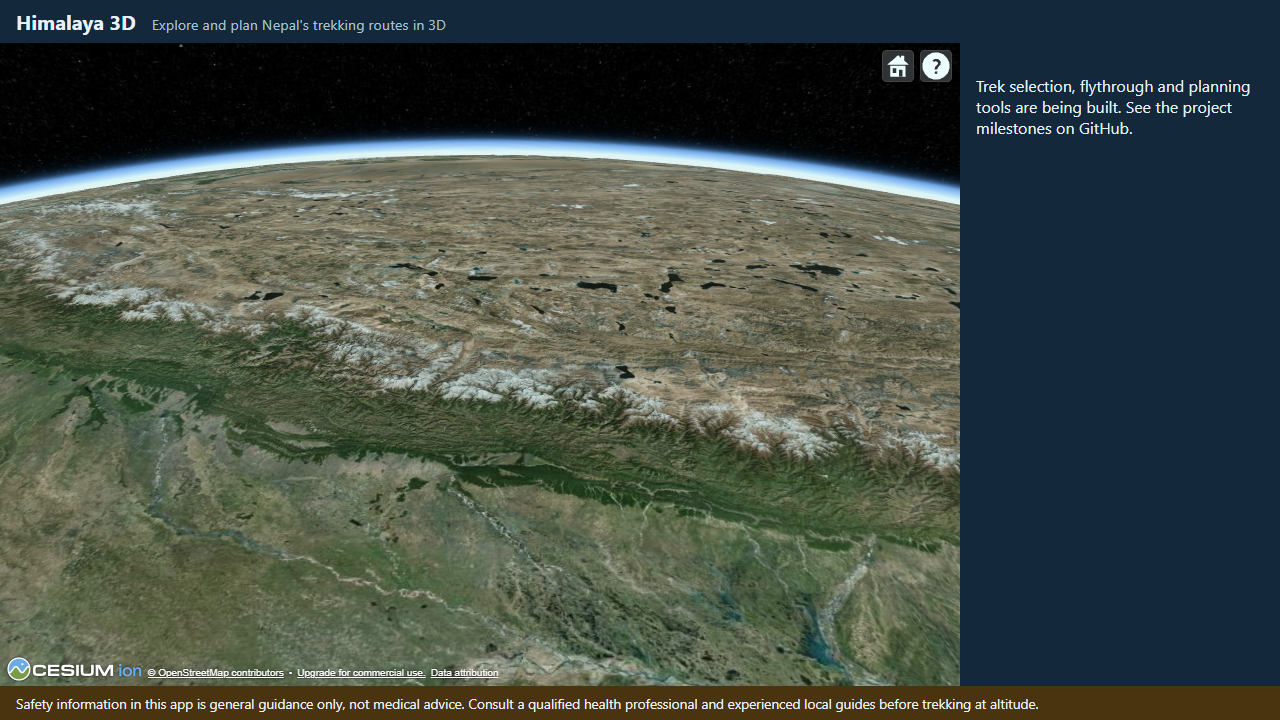
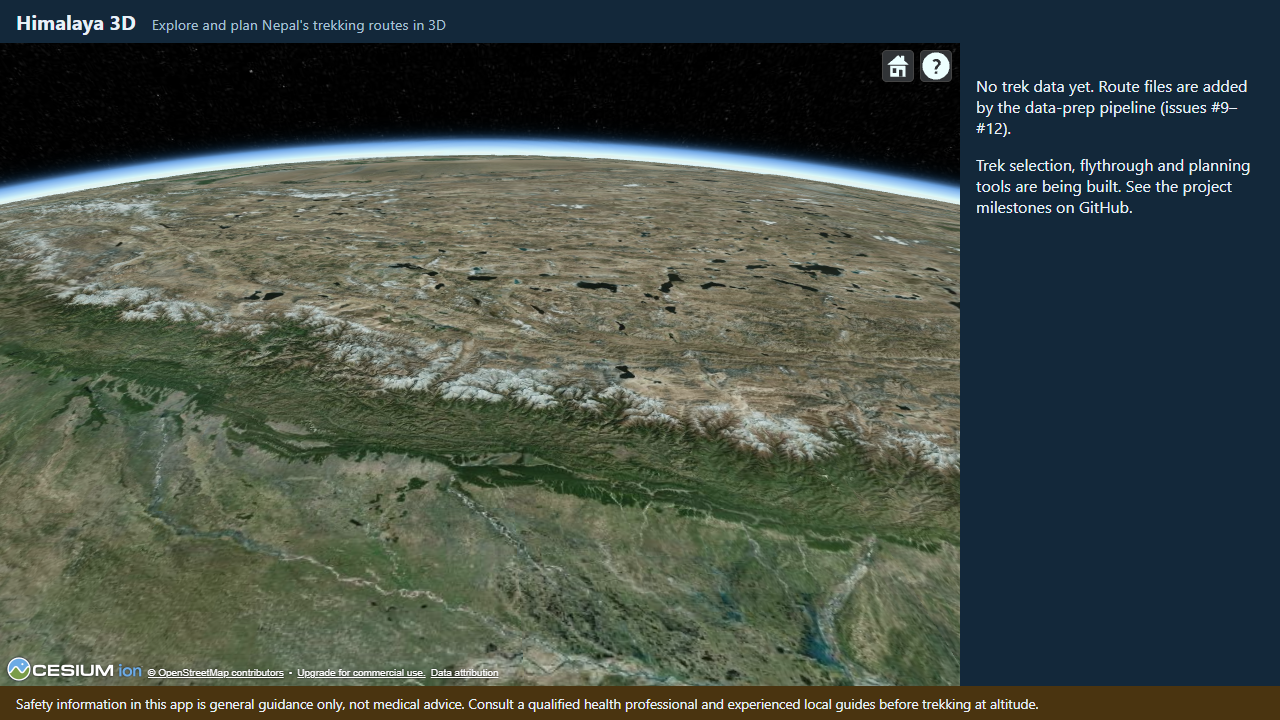
docs(3d-engine): route layer docs, ADR-025, index in schema doc; refresh start-view screenshot
- ADR-025 (run-time route loading, ViewerContext, synthetic e2e fixture)
- Sparsh's notes (route drawing walkthrough, Q23-26, exercises 9-10); Unique's (route_index.py)
- data-schema.md explains data/routes/index.json; ui-design 'still to add' updated
- i18n-review lists the new strings; README feature table; progress and AI usage
- m3-nepal-start-view.png now shows the side-panel status line

Refs #15

Changed region(s): [[0.75, 0.0917, 0.9688, 0.1833], [0.75, 0.2139, 0.9688, 0.3056]]

diff --git a/docs/viva/sparsh-gorkhali.md b/docs/viva/sparsh-gorkhali.md
@@ -22,6 +22,11 @@ in M7 you lead performance measurement and testing.
 | `app/src/engine/nepalView.test.ts` | Checks the start view looks at Nepal (worked numbers in comments) | FR1 |
 | `app/src/engine/camera.ts` | Nepal as Cesium's default view; `viewNepal`; home button flies back to Nepal | FR1 |
 | `app/src/engine/credits.ts` | OpenStreetMap credit shown on the map next to Cesium's | NFR5 |
+| `app/src/engine/ViewerContext.ts` | Shares the Viewer with layers inside the globe (`useViewer`) | FR2 |
+| `app/src/features/routes/RouteLayer.tsx` | Draws the trail and stop markers; removes them in cleanup | FR2 |
+| `app/src/features/routes/routeEntities.ts` (+ test) | What to draw, as plain data; escaped popup HTML | FR2 |
+| `app/src/features/routes/loadRoutes.ts`, `useRoutes.ts` | Download the index and the shown route | FR2 |
+| `app/e2e/routes.spec.ts`, `app/e2e/fixtures/` | e2e with a SYNTHETIC route served by `page.route` | FR2 |
 | `app/src/lib/geo/distance.ts` | Haversine, cumulative distance, distance → (segment, t) lookup | FR3, FR4 |
 | `app/src/lib/geo/distance.test.ts` | Hand-checkable tests (1° = 111,194.9 m, πR/2, πR, uneven spacing) | FR3, FR4 |
 | `app/playwright.config.ts` | Runs e2e tests against the production build under `/himalaya-3d/` | all |
@@ -183,6 +188,37 @@ Distances before the start or after the end are clamped. Example from the tests:
   hundreds of metres, not for continents.
 - Heights are ignored: these are map distances, not the distance walked up and down hills.
 
+### Drawing a route (`features/routes/`, `engine/ViewerContext.ts`, issue #15)
+
+**Data flow.**
+
+```
+App ──useRoutes──► fetch <base>data/routes/index.json ──► fetch <first id>.geojson ──► RouteFile
+App renders <CesiumGlobe> <RouteLayer route=... language=... /> </CesiumGlobe>
+CesiumGlobe ──ViewerContext──► RouteLayer ──useViewer()──► the Viewer (null until it exists)
+RouteLayer effect: routeDrawing(route, language)        plain data, unit-tested
+                   → new CustomDataSource: trail polyline + one point/label per stop
+                   → viewer.dataSources.add(...) → viewer.flyTo(dataSource)
+           cleanup: viewer.dataSources.remove(dataSource, true)   (every entity gone at once)
+```
+
+**Key ideas.**
+- *Load at run time, not bundle:* the index is small; a route file is downloaded only when shown,
+  and the e2e test can swap in a synthetic route with `page.route` (ADR-025).
+- *One data source per route:* removing it removes the trail and every marker together, so
+  switching routes can never leave old markers behind.
+- *`clampToGround: true`* drapes the trail over the terrain; *`HeightReference.CLAMP_TO_GROUND`*
+  puts the markers on the ground; *`disableDepthTestDistance: Infinity`* keeps markers visible
+  even where a ridge is in front of them.
+- *Popups:* each stop entity has a `description` (HTML) that Cesium's info box shows when the
+  marker is clicked. The HTML is built in `routeEntities.ts` and every piece of data in it goes
+  through `escapeHtml`, so a "<" in a name can never inject markup.
+- *Async safety:* `dataSources.add` returns a promise. If the route changed or the Viewer was
+  destroyed before it resolved, the `removed` flag / `isDestroyed()` check stops the fly-to.
+
+**Limits.** The first route is shown automatically until the trek selector (#16). Daily stages are
+#49. The info box is Cesium's own; its styling is basic.
+
 ## Key concepts from first principles
 
 - **Static site**: just files; the server does no computation. → Free hosting, but no secrets.
@@ -246,6 +282,14 @@ Distances before the start or after the end are clamped. Example from the tests:
     steps (14 for 10,000 points) instead of up to n.
 22. **What does locateDistance return at exactly a stop's distance, and past the end?** — The start
     of the next segment (t = 0); past the end it is clamped to the last segment with t = 1.
+23. **How do layers get the Cesium Viewer?** — Through `ViewerContext`: CesiumGlobe provides it,
+    layers call `useViewer()` and must handle null.
+24. **How are old markers removed when the route changes?** — Everything is in one
+    `CustomDataSource`; the effect cleanup calls `dataSources.remove(dataSource, true)`.
+25. **Why escape the popup HTML when the data is ours?** — Cheap insurance: a `<` or `&` in a name
+    can never break the popup or inject markup.
+26. **How can the route be tested before real data exists?** — The e2e test intercepts the two
+    requests and serves a synthetic fixture; the screenshot is named `...-synthetic.png`.
 
 ## Prove you understand it (do these by hand, no AI)
 
@@ -266,6 +310,10 @@ Distances before the start or after the end are clamped. Example from the tests:
    check it with a new test. Why is it the same as one degree along the equator?
 8. Add a test where the route has a single very long segment between many short ones, and check
    that equal steps in distance still give equal steps on the ground.
+9. Change the trail colour and width in `RouteLayer.tsx`, rebuild, and take a screenshot with
+   `UPDATE_SCREENSHOTS=1 npm run e2e`. Then revert.
+10. Explain, with the code open, what happens if the route changes while `dataSources.add` is
+    still pending. Which line stops the old route's fly-to?
 
 ## AI use in this part
 
@@ -289,3 +337,5 @@ Distances before the start or after the end are clamped. Example from the tests:
   28.58 °N), corrected curvature direction and render-mode notes, Q11–Q13 and Q16 rewritten.
 - 2026-11-21 — M4 #18: geo maths walkthrough (haversine with a calculator-safe worked example,
   cumulative distance, binary search), limits, questions 18–22, exercises 7–8.
+- 2026-11-21 — M3 #15: route drawing walkthrough (ViewerContext, data source, popups, async
+  safety), Q23–26, exercises 9–10.

diff --git a/docs/i18n-review.md b/docs/i18n-review.md
@@ -14,6 +14,13 @@ add the reviewer's name, and fix `app/src/i18n/ne.json` if needed.
 | `globe.noToken` | No Cesium ion token configured: … | Cesium ion टोकन मिलाइएको छैन: … | Needs review | |
 | `panel.comingSoon` | Trek selection, flythrough and planning tools are being built. … | पदयात्रा छनोट, उडान दृश्य (flythrough) र योजना उपकरणहरू बन्दैछन्। … | Needs review | |
 | `credits.osm` | © OpenStreetMap contributors | © OpenStreetMap contributors (kept in English) | Needs review: does the OSMF Attribution Guideline allow a Nepali wording? (TODO(team): verify) | |
+| `routes.loading` | Loading treks… | पदयात्राहरू लोड हुँदैछन्… | Needs review | |
+| `routes.none` | No trek data yet. Route files are added by the data-prep pipeline (issues #9–#12). | अहिलेसम्म पदयात्राको डाटा छैन। … | Needs review | |
+| `routes.error` | Could not load the trek list. … | पदयात्राको सूची लोड गर्न सकिएन। … | Needs review | |
+| `routes.showing` | Showing {name}: {count} overnight stops. Click a marker for details. | {name} देखाइँदैछ: {count} वटा रात बस्ने ठाउँ। … | Needs review (keep {name} and {count}) | |
+| `stop.altitude` | Altitude | उचाइ | Needs review | |
+| `stop.source` | Altitude source | उचाइको स्रोत | Needs review | |
+| `stop.day` | Arrive on day | पुग्ने दिन | Needs review | |
 | `disclaimer.medical` | Safety information in this app is general guidance only, not medical advice. … | यस एपको सुरक्षा जानकारी सामान्य मार्गदर्शन मात्र हो, चिकित्सा सल्लाह होइन। … | Needs review (safety wording — high priority) | |
 
 Full text of each string is in `app/src/i18n/en.json` and `app/src/i18n/ne.json`.

diff --git a/docs/decisions.md b/docs/decisions.md
@@ -304,3 +304,27 @@ details had to be decided to write code and tests.
   impossible altitudes (NaN, Infinity, negative).
 **Consequences:** The UI (#24) words the warnings in both languages. Changing the rule ("rest every
 3 days") means changing one constant and the matching tests.
+
+## ADR-025 · Route files are loaded at run time; layers share the Viewer (Sparsh, 2026-11-21)
+
+**Context:** Issue #15 (FR2): draw the selected route and its stops. No real route files exist yet
+(#9–#12), but the drawing must be testable now.
+**Decision:**
+- `vite.config.ts` copies `data/routes/index.json` and `*.geojson` to `<base>data/routes/`; the app
+  downloads the index first and a route file only when it is shown (`features/routes/loadRoutes.ts`),
+  instead of bundling every route into the JavaScript.
+- `data/routes/index.json` is generated by `prep/route_index.py` (and refreshed by `build_route`);
+  pytest checks the committed index matches the files.
+- `CesiumGlobe` shares the Viewer through `ViewerContext`; layers are rendered as its children and
+  use `useViewer()` (null until the Viewer exists).
+- `RouteLayer` puts everything for one route in one `CustomDataSource` (trail polyline clamped to
+  the ground; stop points and labels clamped to the ground with depth test disabled; Cesium
+  info-box popups) and removes it in the effect cleanup. What to draw is computed as plain data in
+  `routeEntities.ts` (unit tested, HTML-escaped).
+- e2e tests intercept the two requests (`page.route`) and serve a clearly SYNTHETIC fixture
+  (`app/e2e/fixtures/`, "Test Route"); the screenshot from it is named `...-synthetic.png`.
+- Until the trek selector (#16) exists, the first route in the index is shown.
+**Alternatives:** `import.meta.glob` to bundle routes (no network request, but every route is
+downloaded up front and tests cannot swap in a fixture).
+**Consequences:** One extra small request at start-up. Adding a real route needs no code change:
+build it with the pipeline, commit the `.geojson` and the regenerated `index.json`.

diff --git a/docs/PROGRESS.md b/docs/PROGRESS.md
@@ -5,6 +5,30 @@ what the TEAM must do next, open questions.
 
 ---
 
+## 2026-11-21 · M3 #15 Route line and stop markers (owner: Sparsh; index: Unique)
+
+**Done**
+
+- Routes are loaded at run time: `data/routes/index.json` (generated by `prep/route_index.py`,
+  refreshed by `build_route`, checked by pytest) and then one `.geojson` (ADR-025).
+- `ViewerContext`: layers inside `CesiumGlobe` reach the Viewer with `useViewer()`.
+- `RouteLayer`: trail clamped to the ground, stop markers and labels, Cesium info-box popups with
+  escaped HTML (name in both languages, altitude with source, day, description); everything for a
+  route is one data source, removed in cleanup; the camera flies to the route.
+- Side panel status line: loading / no trek data yet / could not load / "Showing … N overnight
+  stops". `t()` gained `{name}` placeholders (a test checks both languages use the same holes).
+- The real index is empty, so the live app says "No trek data yet". The e2e test serves a
+  SYNTHETIC fixture route: `docs/screenshots/m3-route-layer-synthetic.png`.
+- Follow-up issue #49 opened for FR2's "daily stages".
+
+**Test evidence (local, Windows):** after merging main: `npm run lint` clean; `npm run typecheck`
+clean; Vitest all passed; `npm run e2e` 3 passed; data-prep `pytest` 116 passed, 1 skipped.
+
+**TEAM TODO:** Sparsh: exercises 9–10. Dipson: the new strings are listed in
+`docs/i18n-review.md`.
+
+---
+
 ## 2026-11-21 · M4 #18 Geo maths library (owner: Sparsh)
 
 **Done**

diff --git a/docs/AI_USAGE.md b/docs/AI_USAGE.md
@@ -15,6 +15,7 @@ that ran on a team member's laptop with access only to this project folder.
 | 2026-11-21 | M3 | For issue #14, wrote the Nepal start view (unit-tested aim-point maths), the home-button redirect, request-render mode, the on-map OSM credit, an e2e credit check, ADR-023 and Sparsh's notes; chose the view by comparing screenshots of the real build. | Sparsh reads the engine files, runs the app, and does exercises 2, 5 and 6 by hand. |
 | 2026-11-21 | M5, M7 | For issue #23, wrote the acclimatization checker, its 25 tests and ADR-024, and ran a mutation check; for #31, wrote the testing templates and the questionnaire with empty result cells. | Unique runs the checker tests and fills the matrix results; the team fills every testing table from real measurements and real users. |
 | 2026-11-21 | M4 | For issue #18, wrote the haversine / cumulative-distance / binary-search module and its tests; fixed what code review found (worked-example rounding, weak tests, NaN) and ran a mutation check. | Sparsh works the haversine example by hand and does exercises 7–8. |
+| 2026-11-21 | M3 | For issue #15, wrote run-time route loading, the route index generator, ViewerContext, RouteLayer with popups, `{name}` placeholders in `t()`, unit and e2e tests (with a synthetic fixture route), ADR-025 and the notes; opened issue #49 for daily stages. | Sparsh and Unique read the new modules; Dipson reviews the new strings. |
 
 ## Rules we gave the AI (from CLAUDE.md and our setup prompt)
 

diff --git a/docs/viva/unique-ghimire.md b/docs/viva/unique-ghimire.md
@@ -31,6 +31,7 @@ environment, shared folder paths, a citation template, and smoke tests.
 | `data-prep/prep/build_route.py` | Spec → ways → one trail → simplified → checked → GeoJSON | FR2 |
 | `data-prep/route-specs/` | One hand-written TOML spec per trek, plus `_template.toml` | FR2 |
 | `data-prep/tests/test_overpass.py`, `test_build_route.py` | Pipeline tests with synthetic data, no network | FR2 |
+| `data-prep/prep/route_index.py` (+ test) | Generates `data/routes/index.json` (ids + names) for the app | FR2 |
 | `app/src/lib/acclim/checker.ts` | The acclimatization rules (`checkItinerary`) and `nightsFromStops` | FR5 |
 | `app/src/lib/acclim/checker.test.ts` | 25 test cases: safe and unsafe plans, exact 3,000 m / 500 m edges | FR5 |
 | `docs/testing/acclimatization-matrix.md` | The same cases as a table for the report (results filled by you) | FR5 |
@@ -454,3 +455,5 @@ the counter; `>` → `>=` in each of the three comparisons; never resetting the 
   closed-loop, stop-distance and input checks added after the code review.
 - 2026-11-21 — M5 #23: checker walkthrough, worked example table, mutation check, limits,
   questions 30–36, exercises 11–13.
+- 2026-11-21 — #15: `route_index.py` added (index regenerated by `build_route`; a test checks
+  the committed index matches the route files).

diff --git a/docs/ui-design.md b/docs/ui-design.md
@@ -298,9 +298,9 @@ footer as plain elements, and `styles.css` already has the 900 px breakpoint, th
 the 40% height limit for the stacked panel. Still to add:
 
 - the `AppState` context, when the first shared value arrives (#16);
-- `ViewerContext` in `CesiumGlobe` (#15) and the flythrough controller (#19);
+- the flythrough controller (#19) (`ViewerContext` now exists, #15);
 - the tabs (#16) and the profile strip row in the grid (#21);
-- the static credits (#15 adds OSM; #25 and #26 add USGS and Open-Meteo).
+- the USGS and Open-Meteo credits (#25, #26); the OSM credit is on since #14.
 
 ### Gaps in the current code this design fixes later
 

diff --git a/docs/data-schema.md b/docs/data-schema.md
@@ -156,6 +156,13 @@ altitudes are made up for testing and do not describe any real place.
 }
 ```
 
+## The route list (`data/routes/index.json`)
+
+Next to the route files is `index.json`: the id and both names of every route, sorted by id.
+The app downloads it first to fill the trek selector and downloads a route file only when it is
+picked. It is generated, never typed: `python -m prep.route_index` (and `prep.build_route` refreshes
+it after every build). A test fails if the committed index does not match the route files.
+
 ## Checking files
 
 ```bash

diff --git a/README.md b/README.md
@@ -16,7 +16,7 @@ Computer Science and Engineering, Kathmandu University · Coordinator: Suman Shr
 | | Feature | Status |
 | --- | --- | --- |
 | FR1 | 3D globe of Nepal with real terrain | Scaffold (M0) → M3 |
-| FR2 | Four trekking routes with cited stop altitudes | M2–M3 |
+| FR2 | Four trekking routes with cited stop altitudes | Drawing works (M3, #15); route data pending (#9–#12) |
 | FR3 | Animated flythrough | M4 |
 | FR4 | Elevation profile linked to the map | M4 |
 | FR5–FR6 | Itinerary planner + acclimatization checker | M5 |
